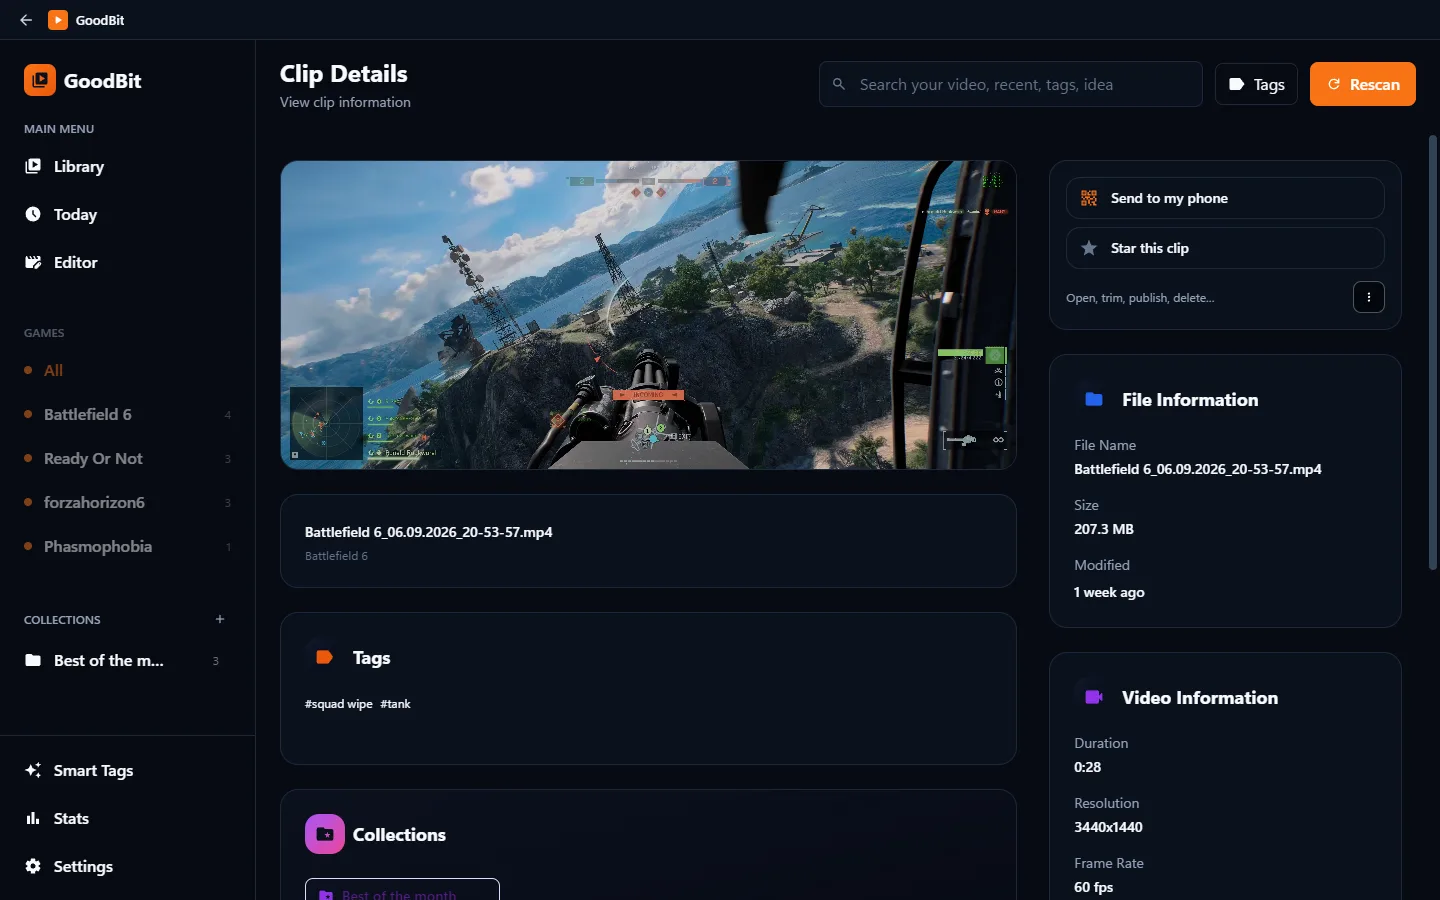
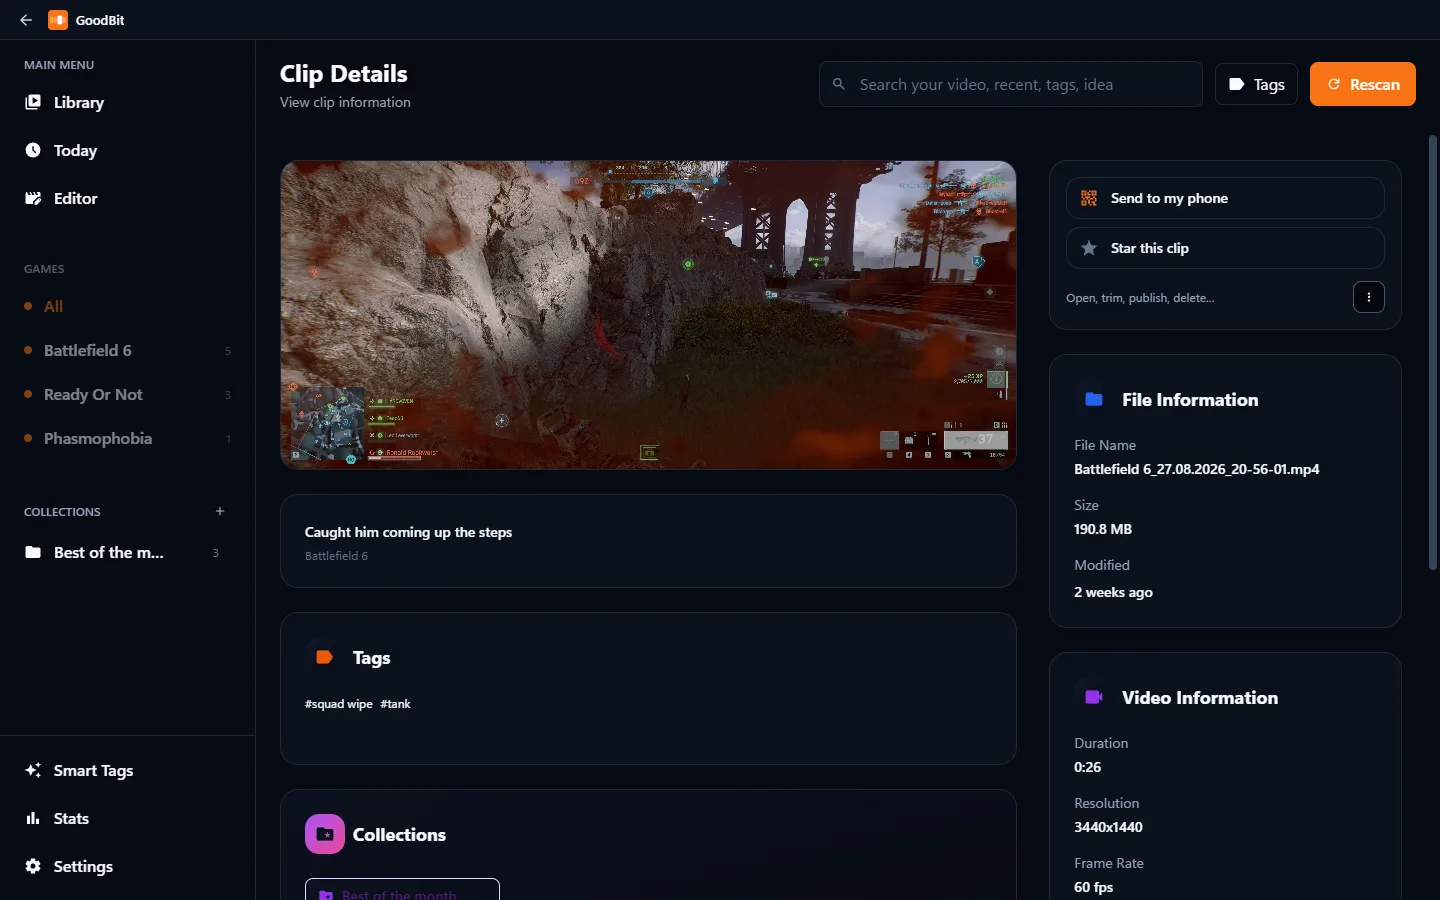
feat: the app has a mark of its own, and the site shows a library someone has used
The icon was a play triangle on orange, which is what every video tool on the
machine looks like. It is now a strip of frames with the one worth keeping lit
— the thing the app actually does — and the same shape is drawn inline as
`AppMark.vue` for the title bar and the first-run screen, which were each
carrying their own unrelated glyph.

The website screenshots are retaken from a real library, and two things about
them changed:

- The clips have names. A wall of `Battlefield 6_30.08.2026_13-17-24.mp4` is
  exactly what the app is for getting away from, so photographing one sold the
  opposite of the point. The recordings are never renamed; a display name is a
  database field, and the photographed library is thrown away afterwards.
- The trim shot is of a chosen recording rather than whichever happened to be
  newest — one with a kill in it, so the page shows the suggestion banner
  saying *you dropped someone here — Battlefield put its own kill banner up*,
  which is the feature worth a picture. The script waits for the suggestion to
  land rather than photographing a spinner.

diff --git a/src/renderer/src/components/App/AppMark.vue b/src/renderer/src/components/App/AppMark.vue
@@ -1,0 +1,35 @@
+<script setup lang="ts">
+/**
+ * GoodBit's mark, drawn rather than loaded.
+ *
+ * The same shape as `build/icon.png` — a strip of frames with the one worth
+ * keeping lit — but as SVG, so it stays crisp at the 20 px the title bar shows
+ * it at and needs no image request. `scripts/icon-options.mjs` is where the
+ * shape came from; if the icon ever changes, both change together.
+ */
+interface Props {
+  /** Rendered size in pixels. */
+  size?: number;
+}
+
+withDefaults(defineProps<Props>(), { size: 20 });
+</script>
+
+<template>
+  <svg
+    :width="size"
+    :height="size"
+    viewBox="0 0 512 512"
+    role="img"
+    aria-label="GoodBit"
+    class="flex-shrink-0"
+  >
+    <rect width="512" height="512" rx="96" fill="#f97316" />
+    <g fill="#ffffff" opacity="0.34">
+      <rect x="56" y="184" width="80" height="144" rx="18" />
+      <rect x="148" y="184" width="80" height="144" rx="18" />
+      <rect x="376" y="184" width="80" height="144" rx="18" />
+    </g>
+    <rect x="244" y="144" width="120" height="224" rx="26" fill="#ffffff" />
+  </svg>
+</template>

diff --git a/src/renderer/src/views/WelcomePage.vue b/src/renderer/src/views/WelcomePage.vue
@@ -1,5 +1,6 @@
 <script setup lang="ts">
 import BaseToggle from '../components/Base/BaseToggle.vue';
+import AppMark from '../components/App/AppMark.vue';
 import { computed, onMounted, ref } from 'vue';
 import { useRouter } from 'vue-router';
 import { Icon } from '@iconify/vue';
@@ -51,9 +52,7 @@ async function finish(): Promise<void> {
   <div class="h-full overflow-auto flex items-center justify-center p-8">
     <div class="w-full max-w-lg space-y-8">
       <div class="text-center space-y-3">
-        <div class="w-14 h-14 rounded-2xl bg-orange-500 mx-auto flex items-center justify-center">
-          <Icon icon="material-symbols:play-arrow-rounded" class="text-white text-3xl" />
-        </div>
+        <AppMark :size="56" class="mx-auto" />
         <h1 class="text-2xl font-bold text-foreground">Welcome to GoodBit</h1>
         <p class="text-sm text-muted-500">
           Point it at the folder OBS records into. It watches from there, and finds the good bit.

diff --git a/src/renderer/src/components/App/TitleBar.vue b/src/renderer/src/components/App/TitleBar.vue
@@ -1,6 +1,7 @@
 <script setup lang="ts">
 import { computed, watch } from 'vue';
 import { Icon } from '@iconify/vue';
+import AppMark from './AppMark.vue';
 import { useRoute, useRouter } from 'vue-router';
 import { useTheme } from '../../composables/useTheme';
 
@@ -48,9 +49,7 @@ watch(
     </button>
 
     <div class="flex items-center gap-2 min-w-0">
-      <div class="w-5 h-5 rounded bg-orange-500 flex items-center justify-center flex-shrink-0">
-        <Icon icon="material-symbols:play-arrow-rounded" class="text-white text-sm" />
-      </div>
+      <AppMark :size="20" />
       <span class="text-[13px] font-semibold text-foreground truncate">{{ APP_NAME }}</span>
     </div>
 
